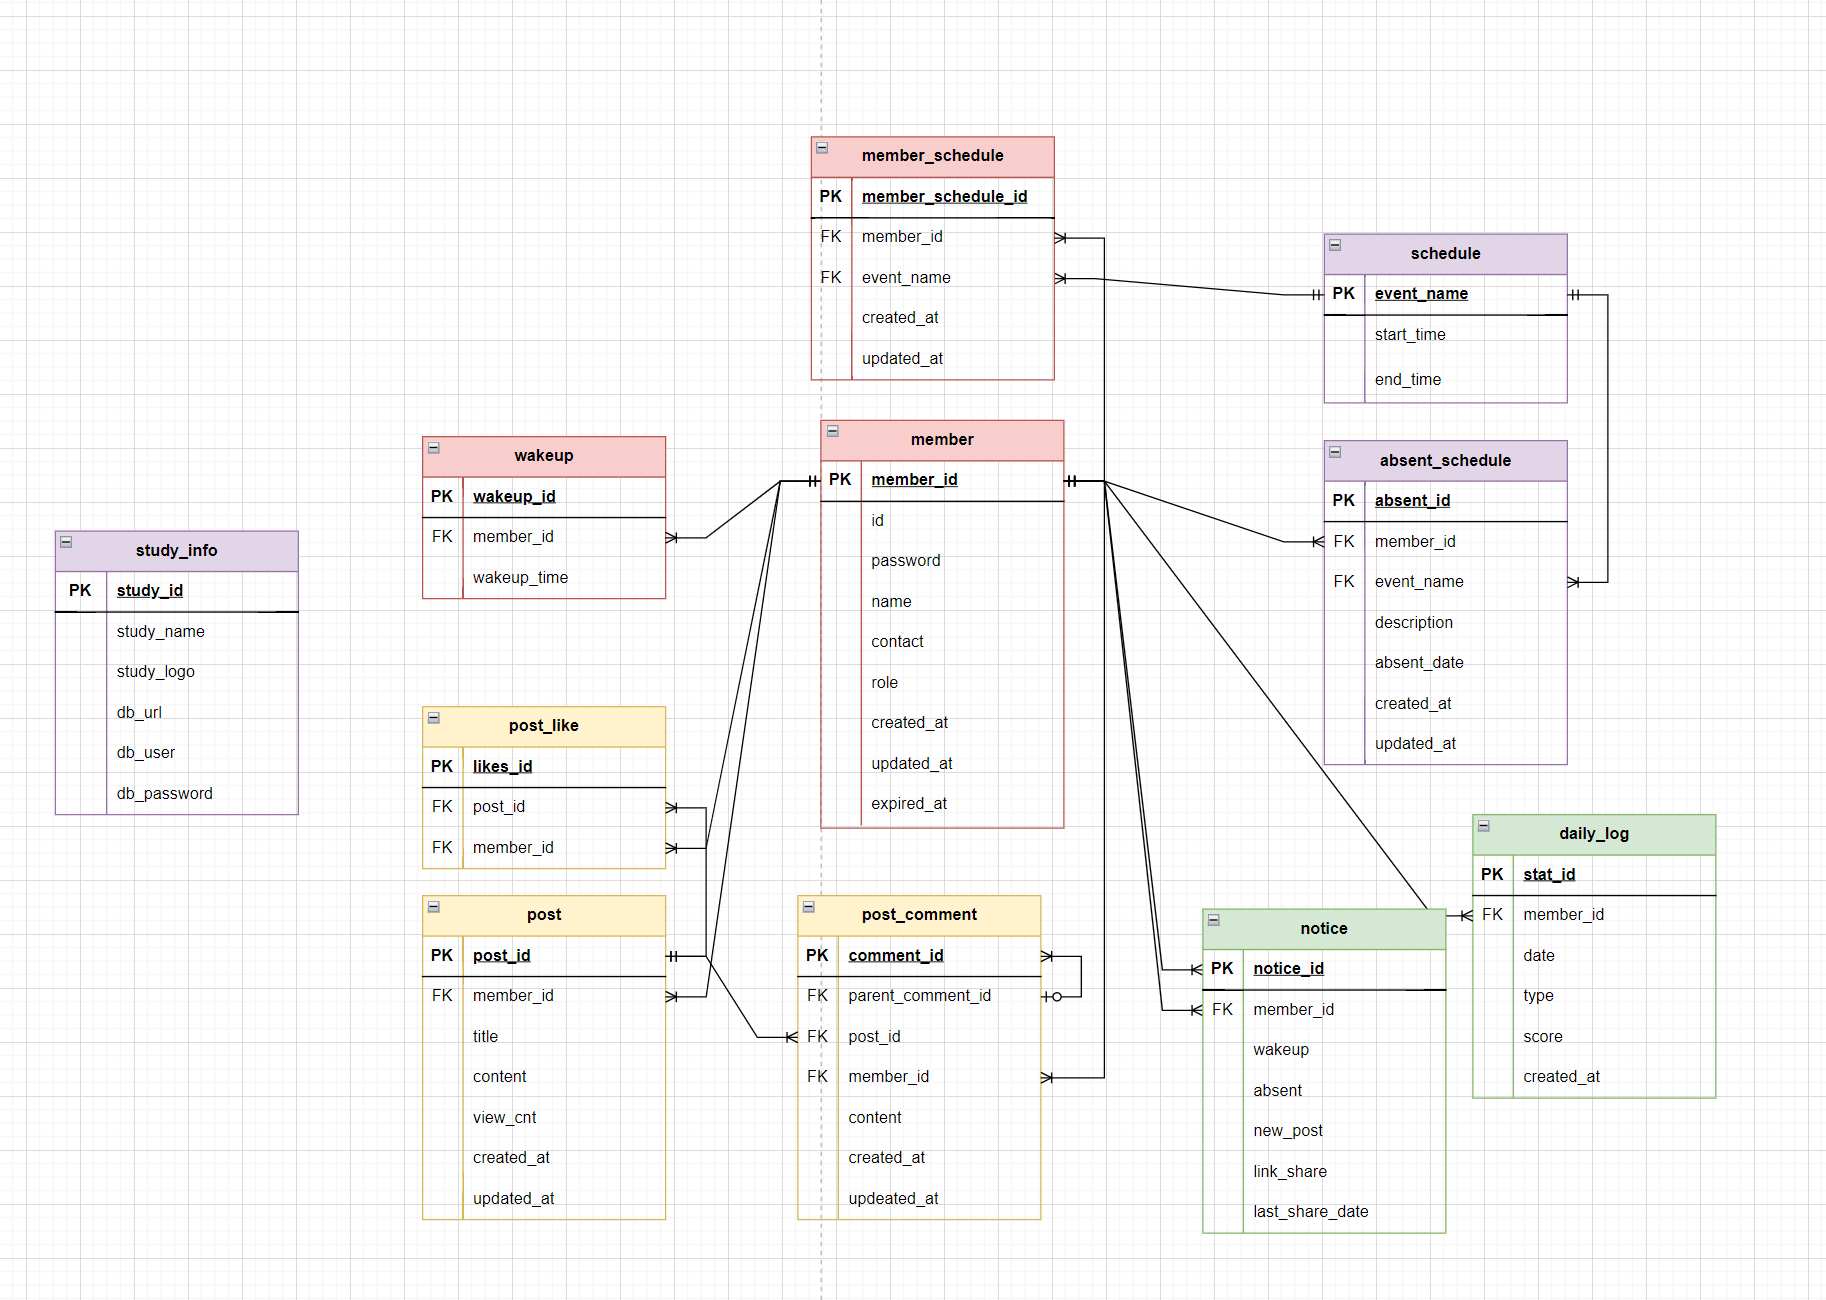
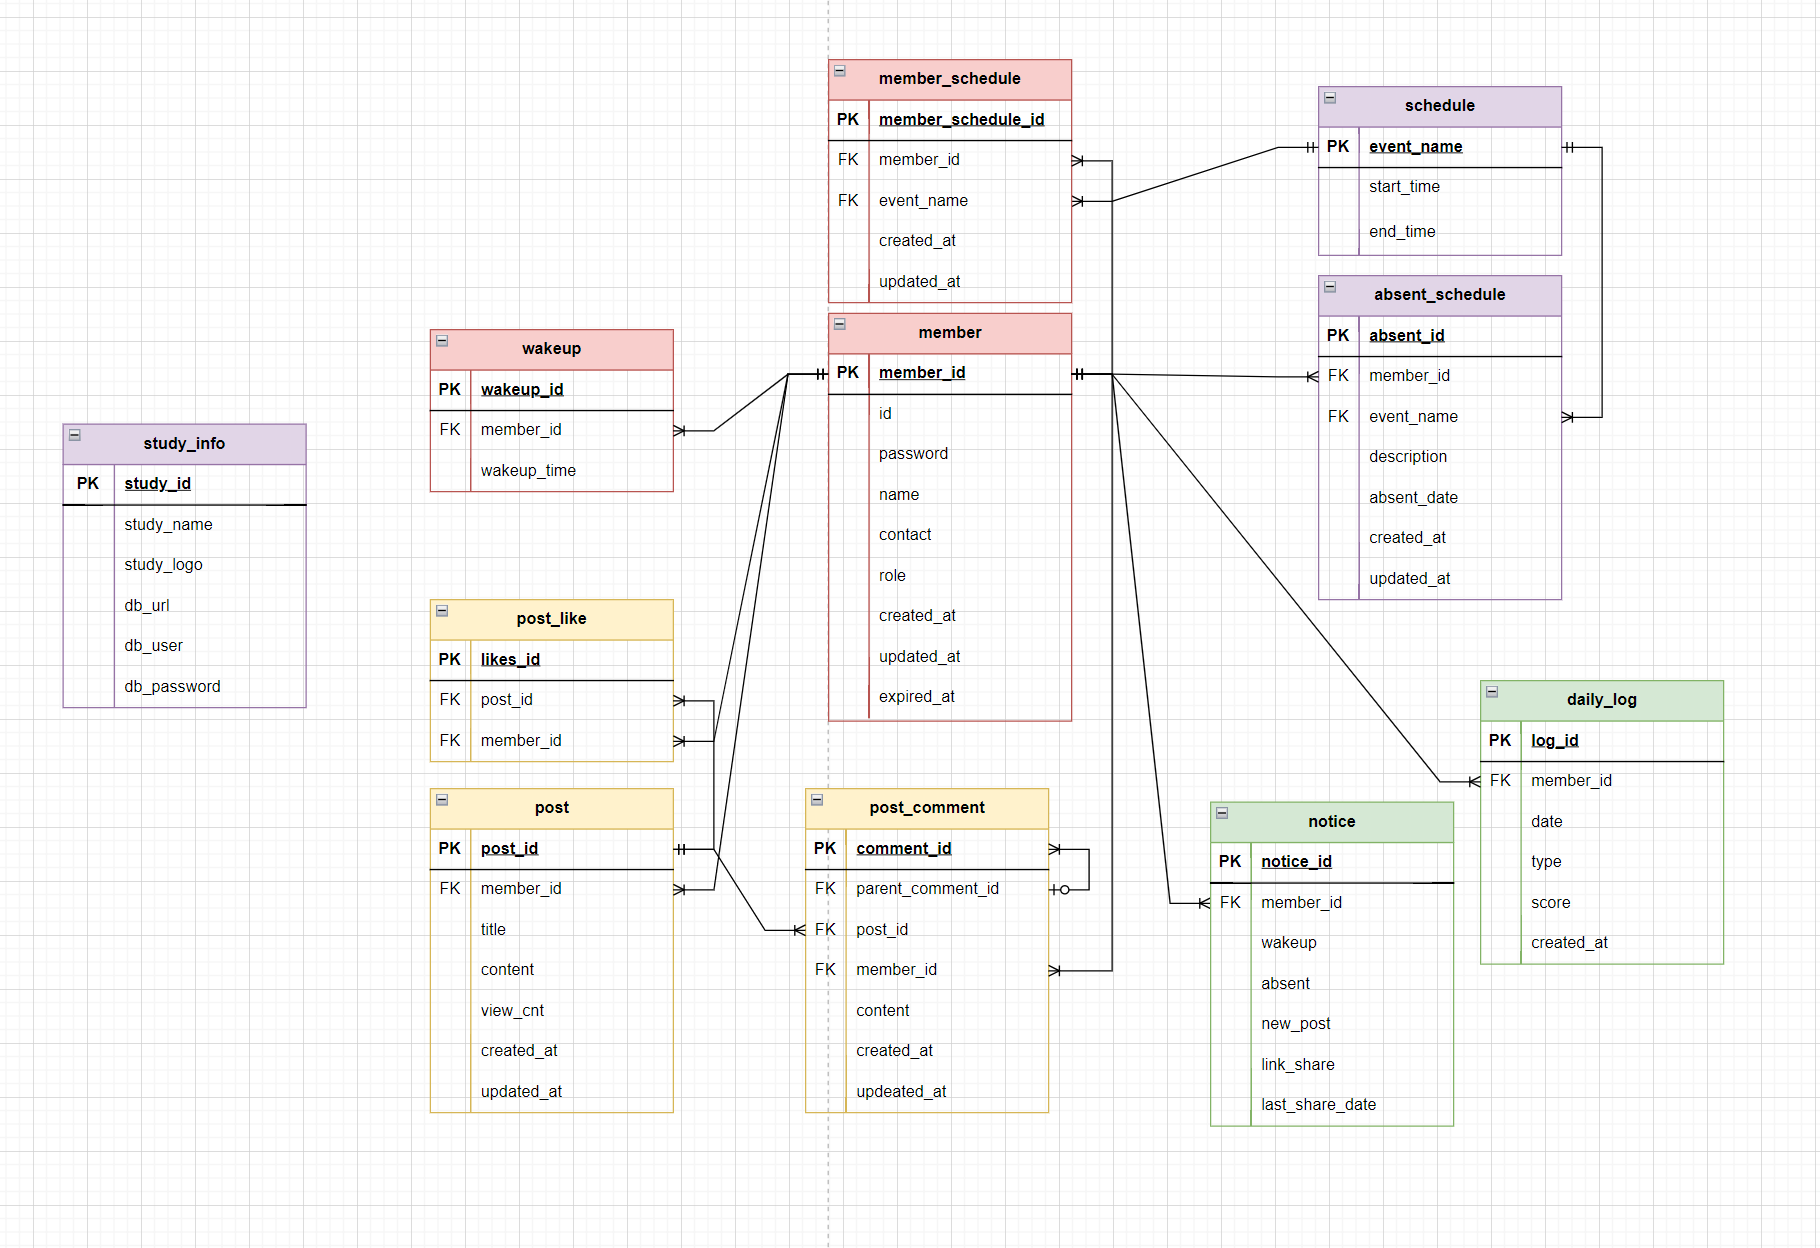
[fix] Change Sequence Generation Type from Sequence to Identity

diff --git a/src/main/java/mogakco/StudyManagement/entity/DailyLog.java b/src/main/java/mogakco/StudyManagement/entity/DailyLog.java
@@ -26,8 +26,8 @@ import mogakco.StudyManagement.enums.LogType;
 public class DailyLog {
 
     @Id
-    @GeneratedValue(strategy = GenerationType.SEQUENCE)
-    private Long statId;
+    @GeneratedValue(strategy = GenerationType.IDENTITY)
+    private Long logId;
 
     @ManyToOne(fetch = FetchType.LAZY)
     @JoinColumn(name = "member_id", nullable = false)

diff --git a/src/main/java/mogakco/StudyManagement/entity/MemberSchedule.java b/src/main/java/mogakco/StudyManagement/entity/MemberSchedule.java
@@ -23,7 +23,7 @@ import lombok.NoArgsConstructor;
 public class MemberSchedule {
 
     @Id
-    @GeneratedValue(strategy = GenerationType.SEQUENCE)
+    @GeneratedValue(strategy = GenerationType.IDENTITY)
     private Long memberScheduleId;
 
     @ManyToOne(fetch = FetchType.LAZY)

diff --git a/src/main/java/mogakco/StudyManagement/entity/Member.java b/src/main/java/mogakco/StudyManagement/entity/Member.java
@@ -21,7 +21,7 @@ import mogakco.StudyManagement.enums.MemberRole;
 public class Member {
 
   @Id
-  @GeneratedValue(strategy = GenerationType.SEQUENCE)
+  @GeneratedValue(strategy = GenerationType.IDENTITY)
   private Long memberId;
 
   @Column(nullable = false, unique = true)

diff --git a/src/main/java/mogakco/StudyManagement/entity/AbsentSchedule.java b/src/main/java/mogakco/StudyManagement/entity/AbsentSchedule.java
@@ -23,7 +23,7 @@ import lombok.NoArgsConstructor;
 public class AbsentSchedule {
 
     @Id
-    @GeneratedValue(strategy = GenerationType.SEQUENCE)
+    @GeneratedValue(strategy = GenerationType.IDENTITY)
     private Long absentId;
 
     @ManyToOne(fetch = FetchType.LAZY)

diff --git a/src/main/java/mogakco/StudyManagement/entity/PostComment.java b/src/main/java/mogakco/StudyManagement/entity/PostComment.java
@@ -23,7 +23,7 @@ import lombok.NoArgsConstructor;
 public class PostComment {
 
     @Id
-    @GeneratedValue(strategy = GenerationType.SEQUENCE)
+    @GeneratedValue(strategy = GenerationType.IDENTITY)
     private Long commentId;
 
     @ManyToOne(fetch = FetchType.LAZY)

diff --git a/src/main/java/mogakco/StudyManagement/entity/PostLike.java b/src/main/java/mogakco/StudyManagement/entity/PostLike.java
@@ -22,7 +22,7 @@ import lombok.NoArgsConstructor;
 public class PostLike {
 
     @Id
-    @GeneratedValue(strategy = GenerationType.SEQUENCE)
+    @GeneratedValue(strategy = GenerationType.IDENTITY)
     private Long likesId;
 
     @ManyToOne(fetch = FetchType.LAZY)

diff --git a/src/main/java/mogakco/StudyManagement/entity/Notice.java b/src/main/java/mogakco/StudyManagement/entity/Notice.java
@@ -25,7 +25,7 @@ import lombok.NoArgsConstructor;
 public class Notice {
 
     @Id
-    @GeneratedValue(strategy = GenerationType.SEQUENCE)
+    @GeneratedValue(strategy = GenerationType.IDENTITY)
     private Long noticeId;
 
     @ManyToOne(fetch = FetchType.LAZY)

diff --git a/src/main/java/mogakco/StudyManagement/entity/WakeUp.java b/src/main/java/mogakco/StudyManagement/entity/WakeUp.java
@@ -23,7 +23,7 @@ import lombok.NoArgsConstructor;
 public class WakeUp {
 
     @Id
-    @GeneratedValue(strategy = GenerationType.SEQUENCE)
+    @GeneratedValue(strategy = GenerationType.IDENTITY)
     private Long wakeupId;
 
     @ManyToOne(fetch = FetchType.LAZY)

diff --git a/src/main/java/mogakco/StudyManagement/entity/Post.java b/src/main/java/mogakco/StudyManagement/entity/Post.java
@@ -23,7 +23,7 @@ import lombok.NoArgsConstructor;
 public class Post {
 
     @Id
-    @GeneratedValue(strategy = GenerationType.SEQUENCE)
+    @GeneratedValue(strategy = GenerationType.IDENTITY)
     private Long postId;
 
     @ManyToOne(fetch = FetchType.LAZY)

diff --git a/src/main/java/mogakco/StudyManagement/entity/StudyInfo.java b/src/main/java/mogakco/StudyManagement/entity/StudyInfo.java
@@ -20,7 +20,7 @@ import lombok.NoArgsConstructor;
 public class StudyInfo {
 
     @Id
-    @GeneratedValue(strategy = GenerationType.SEQUENCE)
+    @GeneratedValue(strategy = GenerationType.IDENTITY)
     private Long studyId;
 
     @Column(nullable = false)
